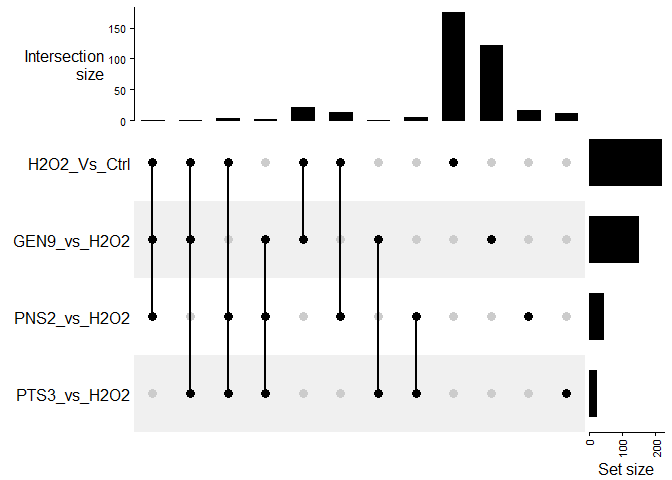
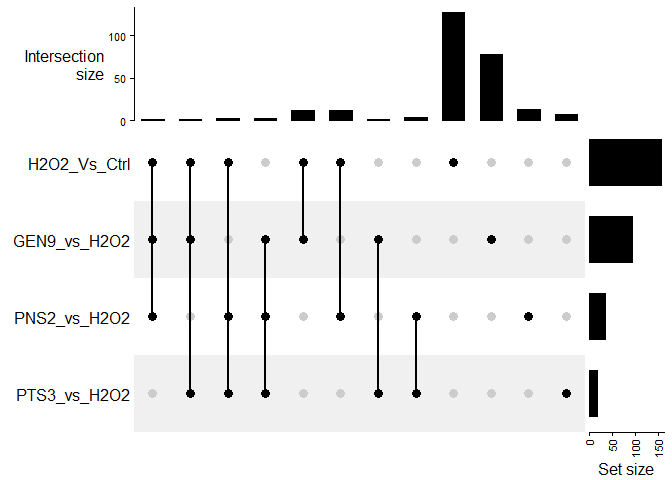
Adjusted for p-value

diff --git a/code/DEG_exploration_Alice-updated.md b/code/DEG_exploration_Alice-updated.md
@@ -88,7 +88,7 @@ We will first visualize DEGs by group using volcano plots. We will
 define DEGs as follow:
 
 ``` r
-alpha <- 0.05
+alpha <- 0.01
 log2FC <- 2
 ```
 
@@ -225,19 +225,15 @@ candidate_genes
 ```
 
     ##  [1] "ENSG00000133661.17" "ENSG00000168679.18" "ENSG00000108602.18"
-    ##  [4] "ENSG00000132938.22" "ENSG00000180638.19" "ENSG00000051382.9" 
-    ##  [7] "ENSG00000076258.10" "ENSG00000086848.15" "ENSG00000100612.14"
-    ## [10] "ENSG00000100985.7"  "ENSG00000101844.18" "ENSG00000105825.14"
-    ## [13] "ENSG00000108654.16" "ENSG00000115461.5"  "ENSG00000119041.11"
-    ## [16] "ENSG00000121552.4"  "ENSG00000124256.15" "ENSG00000126709.16"
-    ## [19] "ENSG00000134326.12" "ENSG00000157601.15" "ENSG00000164331.10"
-    ## [22] "ENSG00000165799.5"  "ENSG00000165949.13" "ENSG00000168874.13"
-    ## [25] "ENSG00000168961.17" "ENSG00000183486.14" "ENSG00000196684.12"
-    ## [28] "ENSG00000101180.17" "ENSG00000101825.8"  "ENSG00000109794.14"
-    ## [31] "ENSG00000132386.11" "ENSG00000137872.17" "ENSG00000145147.20"
-    ## [34] "ENSG00000145824.13" "ENSG00000162892.16" "ENSG00000169271.3" 
-    ## [37] "ENSG00000171227.7"  "ENSG00000171346.16" "ENSG00000171873.8" 
-    ## [40] "ENSG00000197406.8"  "ENSG00000227507.3"
+    ##  [4] "ENSG00000132938.22" "ENSG00000180638.19" "ENSG00000100985.7" 
+    ##  [7] "ENSG00000105825.14" "ENSG00000115461.5"  "ENSG00000124256.15"
+    ## [10] "ENSG00000126709.16" "ENSG00000134326.12" "ENSG00000157601.15"
+    ## [13] "ENSG00000165799.5"  "ENSG00000165949.13" "ENSG00000168961.17"
+    ## [16] "ENSG00000183486.14" "ENSG00000196684.12" "ENSG00000101180.17"
+    ## [19] "ENSG00000101825.8"  "ENSG00000109794.14" "ENSG00000132386.11"
+    ## [22] "ENSG00000137872.17" "ENSG00000145147.20" "ENSG00000145824.13"
+    ## [25] "ENSG00000169271.3"  "ENSG00000171227.7"  "ENSG00000171346.16"
+    ## [28] "ENSG00000171873.8"  "ENSG00000227507.3"
 
 ## Determine if genes reverted expression change
 
